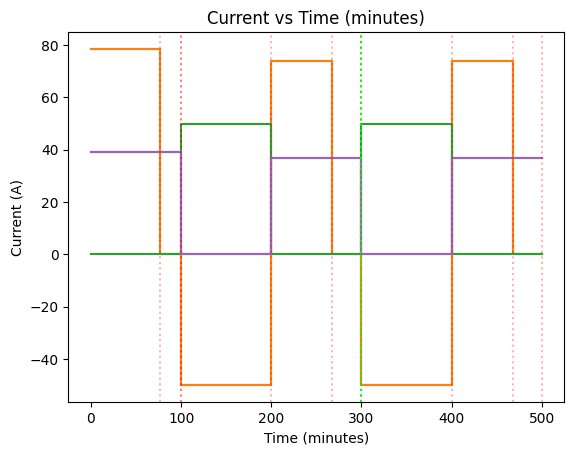
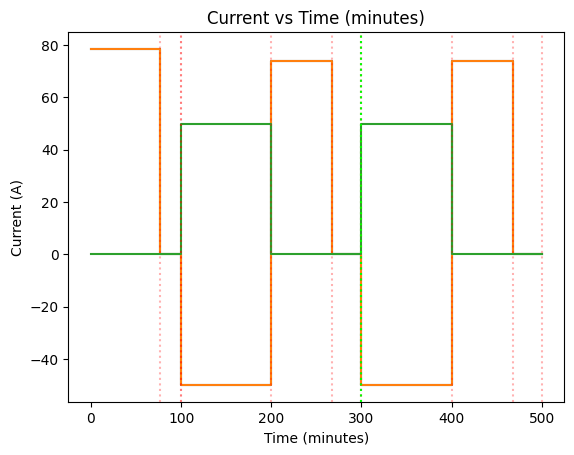
Fix plot point

diff --git a/PySpice/simulation_over_time.py b/PySpice/simulation_over_time.py
@@ -40,15 +40,17 @@ def start_voyage(circuit_config_loc: str, voyage_config_loc: str, save_path: str
         panel_power_setting = segment['solar_power']
         
         modifications = {}
-        modifications['battery_voltage'] = estimate_battery_voltage(current_soc, battery_min_voltage, battery_max_voltage)
         modifications['panel_power_setting'] = panel_power_setting
         modifications['throttle_setting'] = throttle_setting
-                
+        modifications['current_soc'] = current_soc
         
         # Run with original circuit first
         circuit, component_object, errors = build_circuit_from_json(circuit_config_loc=circuit_config_loc, modifications=modifications)
         analysis, result = begin_simulation(circuit, component_object, errors, ngspice_available)
 
+        if results == []:
+            results.append(result)
+            
         if analysis is None:
             print(f"{BARF}Simulation Aborted{BARE}")
             break
@@ -118,35 +120,36 @@ def start_voyage(circuit_config_loc: str, voyage_config_loc: str, save_path: str
         
     #print(json.dumps(results, indent=4))
     print(len(results), len(time_range_min))
-    results = [results[0]] + results
+    #results = [results[0]] + results
     generate_graph(results=results, x_axis=time_range_min, x_label="Time (minutes)",
-                   voltage_display_choice=['battery_result', 'load_result', "mppt_result"],
-                   current_display_choice=['battery_result', 'load_result', "mppt_result"],
+                   voltage_display_choice=['load_result', "mppt_result"],
+                   current_display_choice=['battery_result', 'load_result'],
                    power_display_choice=['panel_result', 'load_result'],
                    battery_capacity=battery_capacity_list,
-                   save_path=save_path)
-
-    
-     
-    
-    
-    
-    
-    
-    
-    
+                   save_path=save_path)    
     None
     
 def real_time_digital_simulation(circuit_config_loc: str, ngspice_available: bool):
     None
-    
-def estimate_battery_voltage(soc, min_voltage, max_voltage):
-    """Simple linear estimation"""
-    print('soc',soc)
-    return min_voltage + (max_voltage - min_voltage) * soc
 
 def step_up_prev(results: list, time_range_min: list, battery_capacity_list: list):
-    results.append(results[-1])
+    prev = results[-2]
+    curr = results[-1]
+    
+    copy = deepcopy(curr)
+    """ for key in copy.keys():
+        if copy[key].get("data") is not None:
+            data = copy[key]["data"]
+            for idx, item in enumerate(data):
+                if type(item) is not dict:
+                    break
+                if item.get("current") is not None:
+                    item["current"] = curr[key]["data"][idx]["current"]
+    """                 
+    results.append(copy)
+    
+    
+    
     time_range_min.insert(-1, time_range_min[-2])
     
     # Keep the battery slanted

diff --git a/PySpice/components/battery_array.py b/PySpice/components/battery_array.py
@@ -5,7 +5,14 @@ class Battery_Array:
         self.circuit = circuit
         self.BATTERY_IN_PARALLEL = kwargs.get("battery_in_parallel")
         self.BATTERY_IN_SERIES = kwargs.get("battery_in_series")
-        self.BATTERY_VOLTAGE = kwargs.get("battery_voltage")
+        
+        self.SOC = kwargs.get("current_soc", 1.0)
+        print("Initial SOC:", self.SOC)
+        if kwargs.get("min_voltage") is not None and kwargs.get("max_voltage") is not None:
+            self.BATTERY_VOLTAGE = self.__estimate_battery_voltage(self.SOC, kwargs.get("min_voltage"), kwargs.get("max_voltage"))
+        else:
+            self.BATTERY_VOLTAGE = kwargs.get("battery_voltage")
+            
         self.BATTERY_MAX_CHARGE_CURRENT = kwargs.get("max_charge_current")
         self.BATTERY_MAX_DISCHARGE_CURRENT = kwargs.get("max_discharge_current")
         self.terminal = None
@@ -69,7 +76,11 @@ class Battery_Array:
     
     def get_total_voltage(self):
         return self.BATTERY_IN_SERIES * self.BATTERY_VOLTAGE   
-            
+        
+    def __estimate_battery_voltage(self, soc, min_voltage, max_voltage):
+        """Simple linear estimation"""
+        return min_voltage + (max_voltage - min_voltage) * soc
+
     def __str__(self):
         return f"""
 {BARF}Battery Setup{BARE}

diff --git a/PySpice/circuit_constructor.py b/PySpice/circuit_constructor.py
@@ -36,8 +36,8 @@ def build_circuit_from_json(circuit_config_loc: str, modifications: dict = {}):
     if modifications.get('max_charge_current') is not None:
         battery_config['max_charge_current'] = modifications['max_charge_current']
     
-    if modifications.get('battery_voltage') is not None:
-        battery_config['battery_voltage'] = modifications['battery_voltage']
+    if modifications.get('current_soc') is not None:
+        battery_config['current_soc'] = modifications['current_soc']
         
     battery_array = Battery_Array(circuit, components, **battery_config)
     err = battery_array.create_battery_array(log=COMPONENT_LOGGING)
@@ -120,3 +120,4 @@ def display_components(components):
 def display_netlist(circuit):
     print("\nCircuit Netlist:")
     print(circuit)
+    

diff --git a/PySpice/sweep_graph_generation.py b/PySpice/sweep_graph_generation.py
@@ -50,9 +50,9 @@ def generate_graph(results: list, x_axis: list, x_label: str = "",
                 'x': x_axis[i],
                 'warnings': result['warning']['data']
             })
-        for array in result['battery_result']['data']:
-            current_list = list(array['current'].values())
-            if abs(sum(current_list) / len(current_list) - 0) < 1:
+        for array in result['summary']['data']:
+            current = array['current']['total_battery_input_current']
+            if current < 1:
                 equilibrium_points.append(x_axis[i])
     
     # Color cycles for different traces
